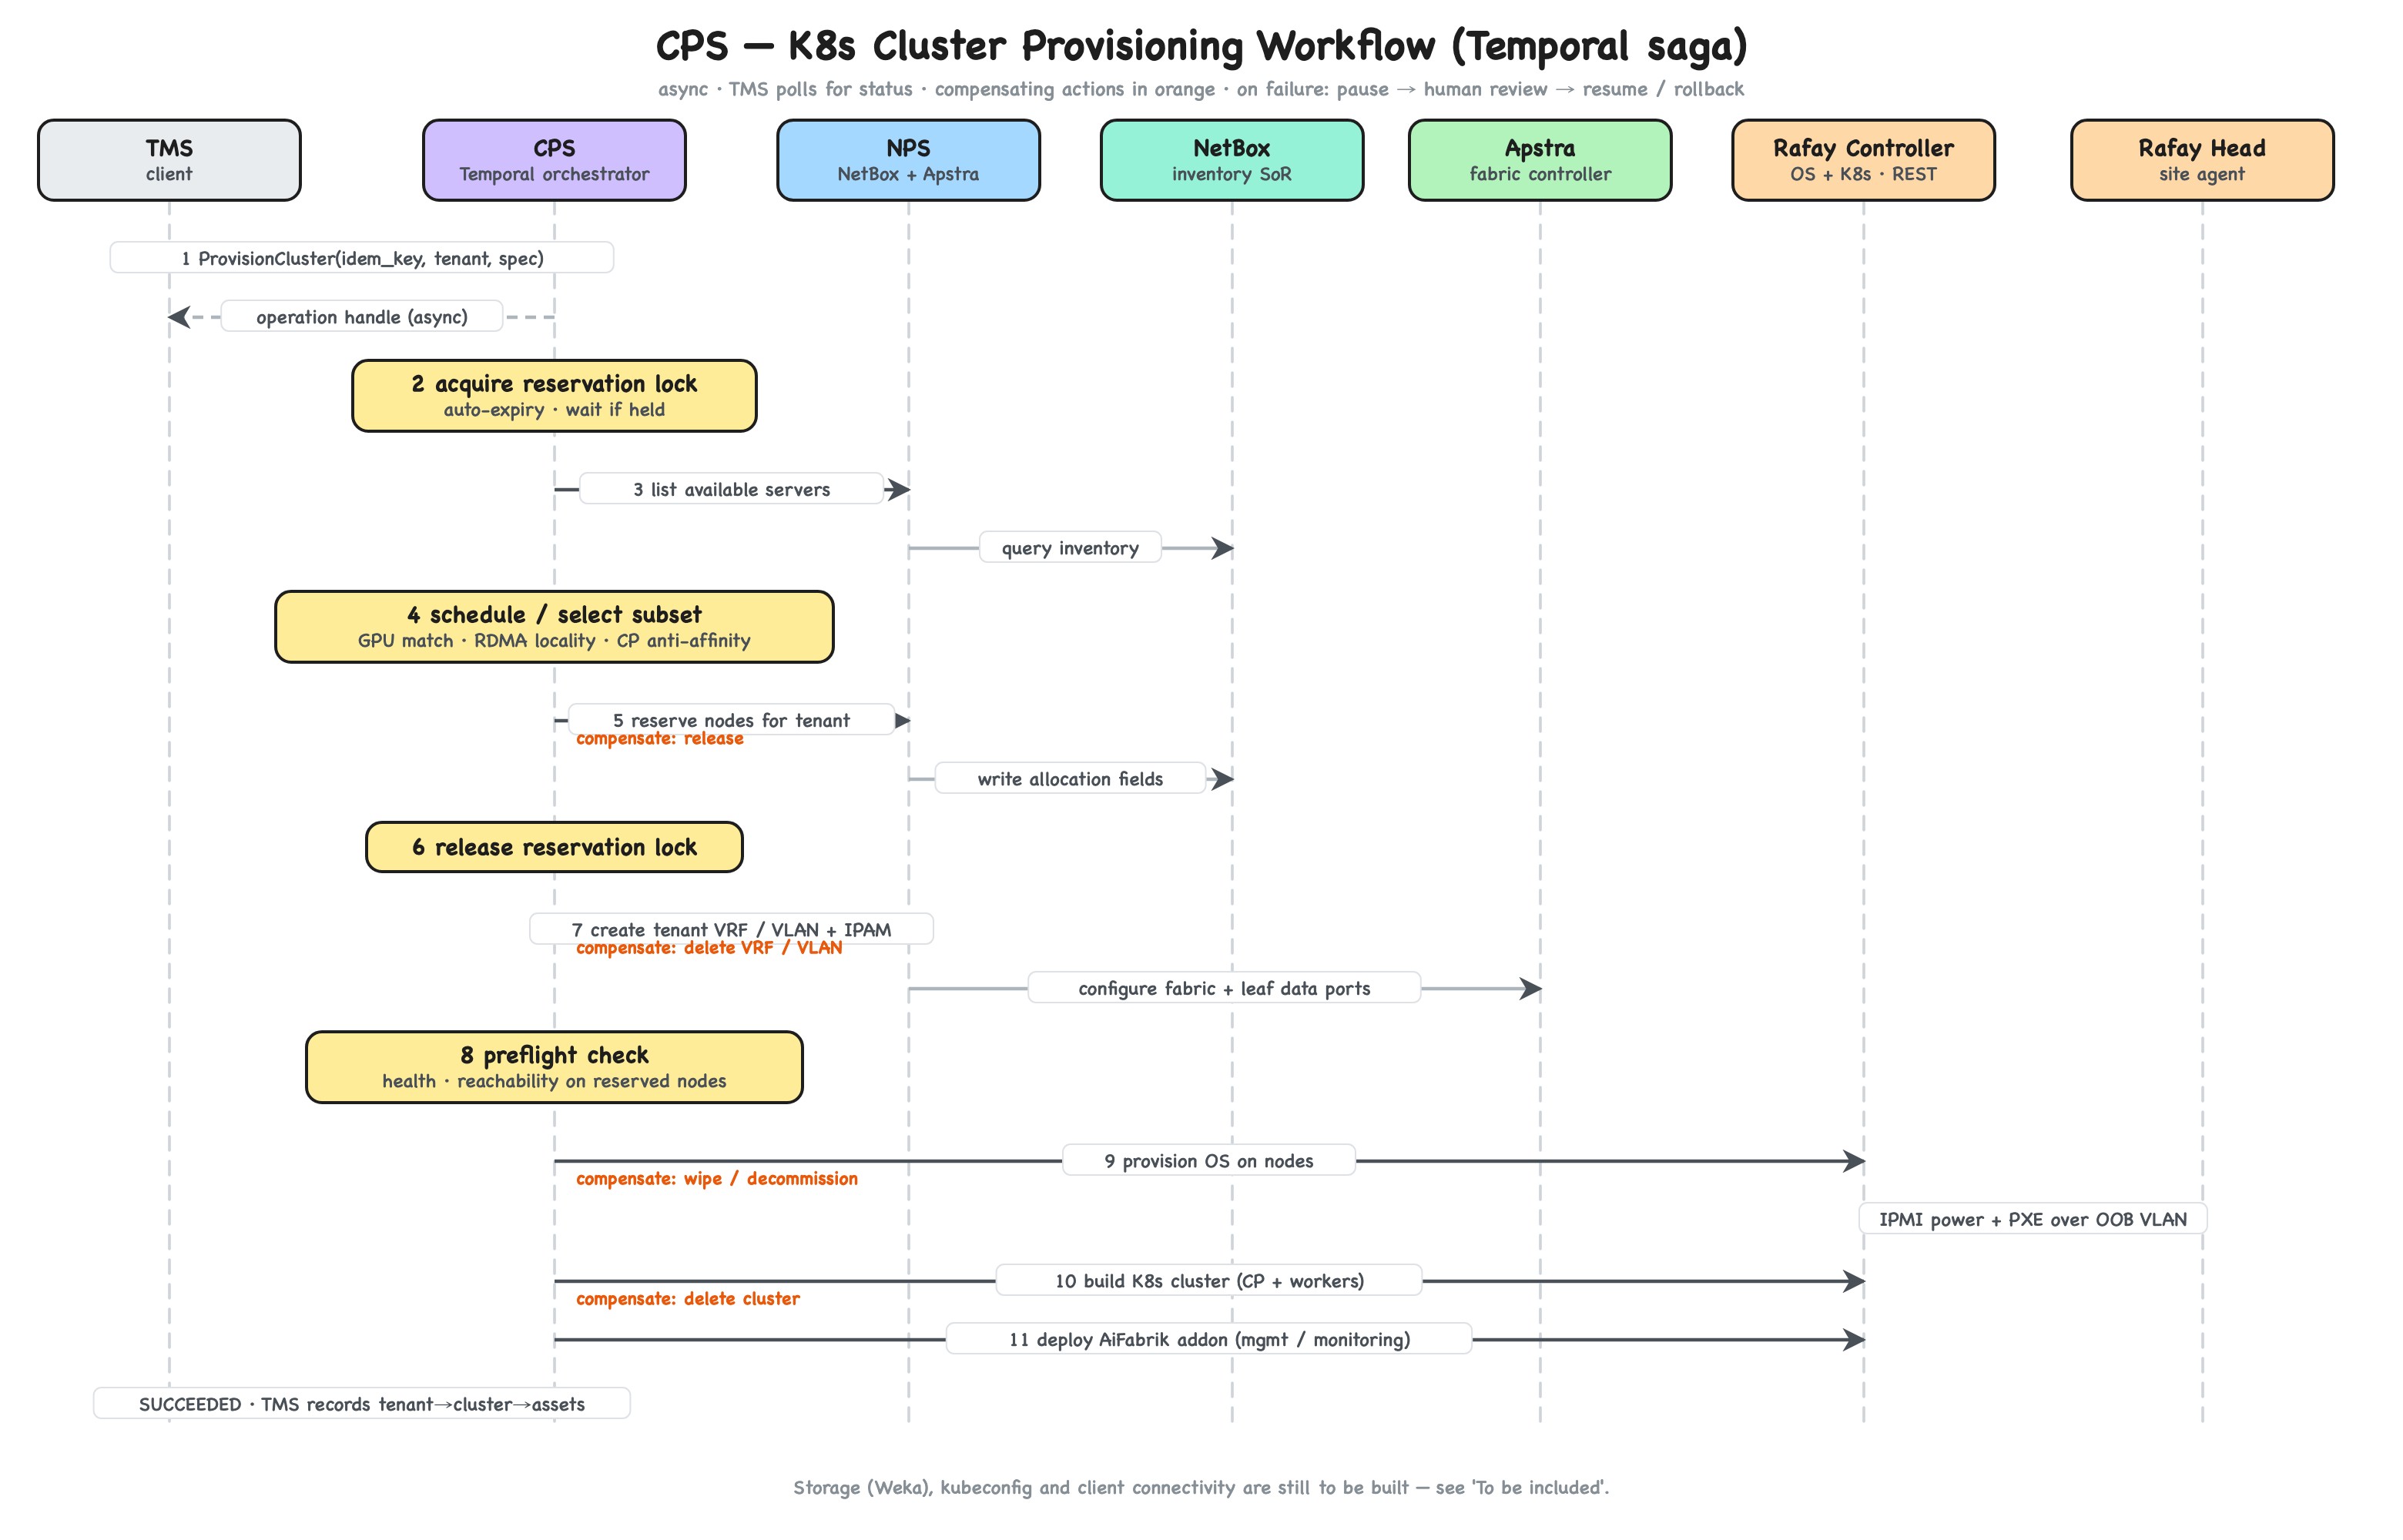
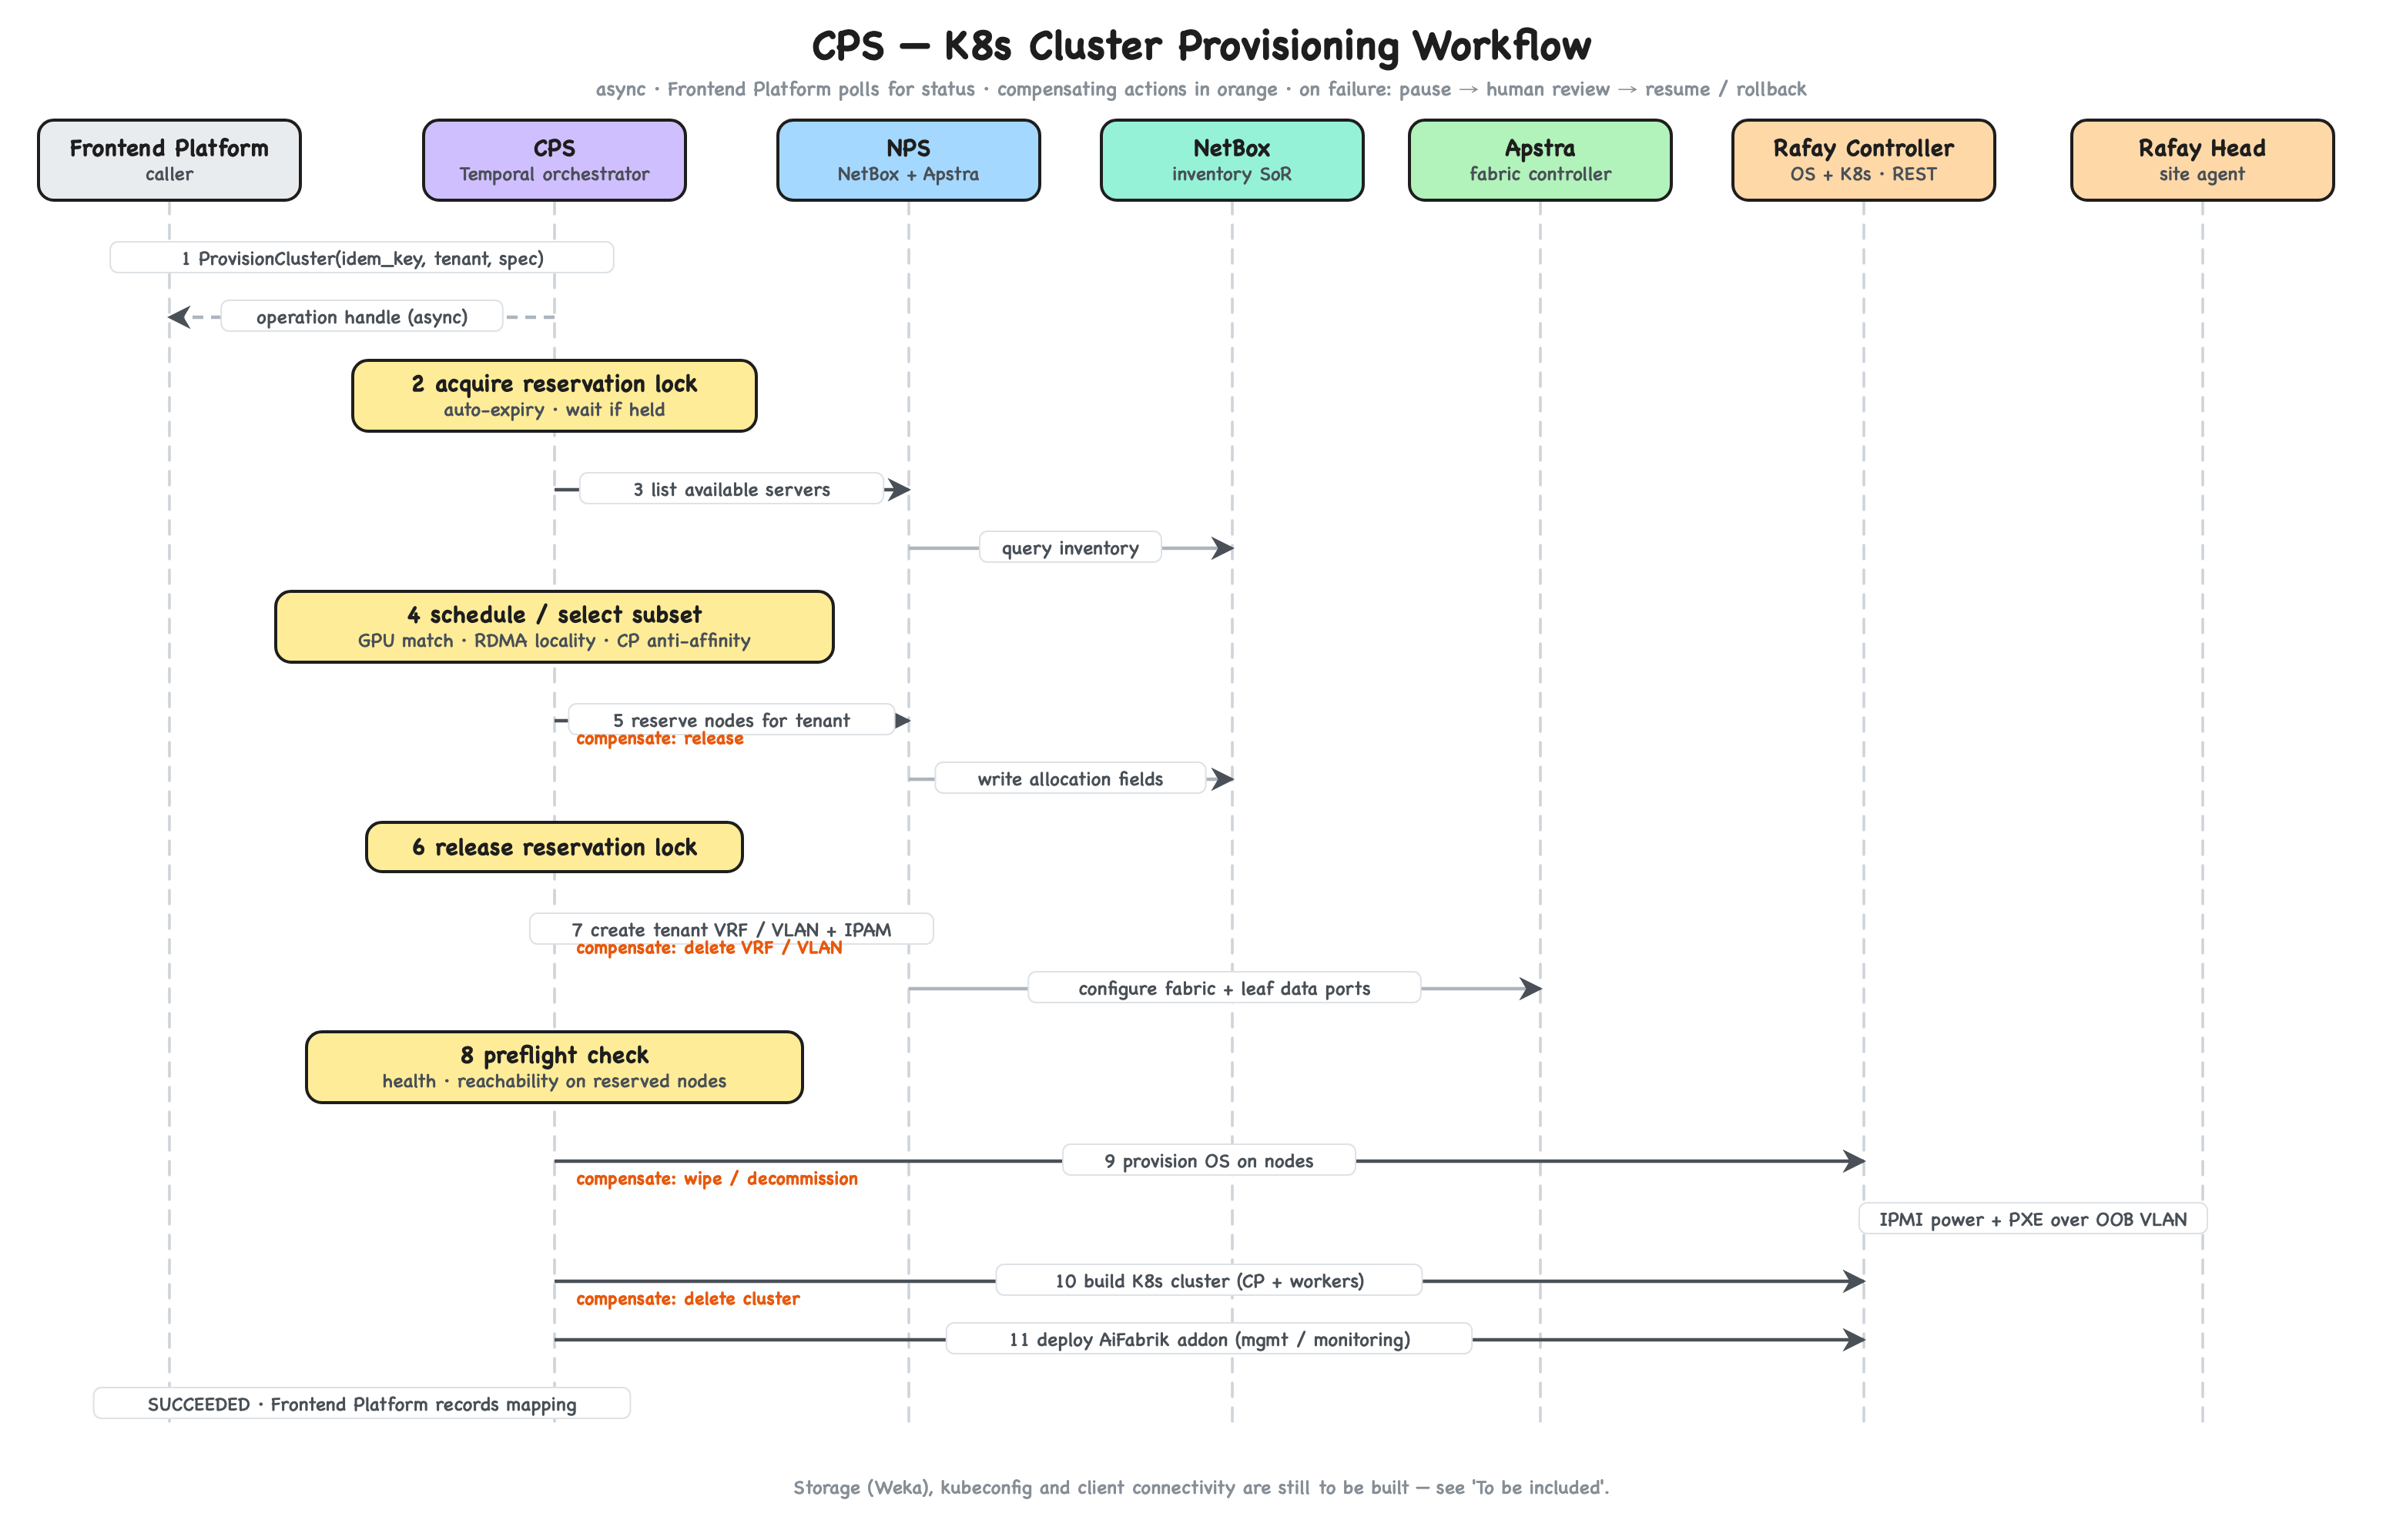
cps-design: snapshot voice, Frontend Platform / Management Plane (GCP) terms, drop saga/first-capability framing

Changed region(s): [[0.2487, 0.0, 0.7462, 0.062], [0.0622, 0.899, 0.2487, 0.93], [0.0311, 0.093, 0.1244, 0.124]]

diff --git a/cps-design/gen/build_provision_flow.py b/cps-design/gen/build_provision_flow.py
@@ -20,9 +20,9 @@ OUT = os.path.normpath(os.path.join(GEN, "..", "diagrams"))
 os.makedirs(OUT, exist_ok=True)
 
 W, H = 1560, 1000
-s = Scene(W, H, "CPS — K8s Cluster Provisioning Workflow (Temporal saga)")
+s = Scene(W, H, "CPS — K8s Cluster Provisioning Workflow")
 s.note(W/2, 62,
-       "async · TMS polls for status   ·   compensating actions in orange   ·   "
+       "async · Frontend Platform polls for status   ·   compensating actions in orange   ·   "
        "on failure: pause → human review → resume / rollback",
        size=13, color="#868e96", bold=False, anchor="middle")
 
@@ -35,7 +35,7 @@ def participant(key, x, title, sub, fill):
     s.line((x, LL_TOP), (x, LL_BOT), dashed=True, color="#ced4da", width=1.8)
     parts[key] = x
 
-participant("tms", 110,  "TMS", "client", "gray")
+participant("tms", 110,  "Frontend Platform", "caller", "gray")
 participant("cps", 360,  "CPS", "Temporal orchestrator", "violet")
 participant("nps", 590,  "NPS", "NetBox + Apstra", "blue")
 participant("nb",  800,  "NetBox", "inventory SoR", "teal")
@@ -91,7 +91,7 @@ comp("cps", y + 664, "delete cluster")
 
 msg("cps", "rc", y + 702, "11   deploy AiFabrik addon (mgmt / monitoring)")
 
-msg("cps", "tms", y + 744, "SUCCEEDED  ·  TMS records tenant→cluster→assets",
+msg("cps", "tms", y + 744, "SUCCEEDED  ·  Frontend Platform records mapping",
     dashed=True)
 
 s.note(W / 2, 970,

diff --git a/cps-design/k8s-cluster-provisioning.md b/cps-design/k8s-cluster-provisioning.md
@@ -1,50 +1,53 @@
-# CPS — K8s Cluster Provisioning (First Capability)
+# CPS — K8s Cluster Provisioning
 
-Design snapshot for the **Compute Provisioning Service (CPS)** first capability:
-provisioning a Kubernetes (K8s) cluster for a tenant on site hardware.
+The **Compute Provisioning Service (CPS)** provisions a Kubernetes (K8s) cluster for
+a tenant on site hardware.
 
-This describes the system as built. It covers the path from a Tenant Management
-Service (TMS) request to a running, AiFabrik-managed K8s cluster. Storage (Weka),
-kubeconfig delivery, and client connectivity belong to the same capability and are
-still to be built — see [To be included](#to-be-included).
+This describes the system as built. It covers the path from a Frontend Platform
+request to a running, AiFabrik-managed K8s cluster. Storage (Weka), kubeconfig
+delivery, and client connectivity are still to be built — see
+[To be included](#to-be-included).
 
 ## Executive summary
 
-CPS is a **stateless Temporal orchestrator** exposing gRPC to its single client,
-TMS. A provision request runs as one Temporal workflow (a saga): it reserves
-hardware in NetBox through the Network Provisioning Service (NPS), creates a tenant
-network (VRF/VLAN + IP addressing) through NPS→Apstra, provisions the operating
-system (OS) and builds K8s through the Rafay Controller, and deploys the AiFabrik
-management/monitoring addon. NetBox is the **System of Record (SoR)** for inventory
-and allocation; TMS — backed by PostgreSQL (PGSQL) — owns the business mapping
+CPS is a **stateless Temporal orchestrator** that exposes a gRPC API. A provision
+request runs as one Temporal workflow that:
+
+- reserves hardware in NetBox through the Network Provisioning Service (NPS);
+- creates a tenant network (VRF/VLAN + IP addressing) through NPS→Apstra;
+- provisions the operating system (OS) and builds K8s through the Rafay Controller;
+- deploys the AiFabrik management/monitoring addon.
+
+NetBox is the **System of Record (SoR)** for inventory and allocation. The Frontend
+Platform — backed by PostgreSQL (PGSQL) — owns the business mapping
 tenant→cluster→assets used for billing. The API is **async**: a call returns an
-operation handle and TMS polls for status.
+operation handle and the Frontend Platform polls for status.
 
 ## Actors & systems
 
-All cloud components run in Google Cloud Platform (GCP).
+All cloud components run in the Management Plane (GCP).
 
 | Component | Where | Role |
 |-----------|-------|------|
-| **TMS** (Tenant Management Service) | GCP / mgmt plane | CPS's client; owns tenant→cluster→assets mapping in PGSQL (billing). |
-| **CPS** (Compute Provisioning Service) | GCP | Temporal orchestrator, gRPC API. **Stateless** beyond Temporal workflow state. Owns scheduling/selection + the reservation lock. |
-| **NPS** (Network Provisioning Service) | GCP | gRPC/Proto wrapper over NetBox (inventory reads + allocation writes); drives Apstra for VRF/VLAN + IP addressing (IPAM). |
-| **NetBox** | GCP | Inventory **SoR**. Two writers, non-overlapping fields: Aravolta (physical) + CPS/NPS (allocation). |
-| **Aravolta** | GCP | Physical data-center infra management; feeds host/switch/router facts into NetBox. |
-| **Juniper Apstra** | GCP | Underlay fabric controller; configures site switches over the VPN. |
-| **Rafay Controller** | GCP (separate GKE cluster) | Bare-metal OS + K8s lifecycle + addons. CPS↔Rafay is REST. |
+| **Frontend Platform** | Management Plane (GCP) | Calls CPS to provision clusters; owns tenant→cluster→assets mapping in PGSQL (billing). |
+| **CPS** (Compute Provisioning Service) | Management Plane (GCP) | Temporal orchestrator, gRPC API. **Stateless** beyond Temporal workflow state. Owns scheduling/selection + the reservation lock. |
+| **NPS** (Network Provisioning Service) | Management Plane (GCP) | gRPC/Proto wrapper over NetBox (inventory reads + allocation writes); drives Apstra for VRF/VLAN + IP addressing (IPAM). |
+| **NetBox** | Management Plane (GCP) | Inventory **SoR**. Two writers, non-overlapping fields: Aravolta (physical) + CPS/NPS (allocation). |
+| **Aravolta** | Management Plane (GCP) | Physical data-center infra management; feeds host/switch/router facts into NetBox. |
+| **Juniper Apstra** | Management Plane (GCP) | Underlay fabric controller; configures site switches over the VPN. |
+| **Rafay Controller** | Management Plane (GCP, separate GKE cluster) | Bare-metal OS + K8s lifecycle + addons. CPS↔Rafay is REST. |
 | **Rafay Head Node** | Site | Last-mile agent: IPMI discovery, PXE boot, host config. |
 | **Site servers** | Site | CPU servers (control plane) + GPU servers (workers). |
 
-## Provisioning workflow (Temporal saga)
+## Provisioning workflow
 
 The API is async: `ProvisionCluster` starts the workflow and returns an operation
-handle; TMS polls `GetOperation`/`GetCluster`. Every mutating step has a
-compensating action, and activities are idempotent so Temporal can safely retry
-them. `ProvisionCluster` takes a client-supplied idempotency key, so a TMS retry
+handle; the Frontend Platform polls `GetOperation`/`GetCluster`. Every mutating step
+has a compensating action, and activities are idempotent so Temporal can safely
+retry them. `ProvisionCluster` takes a client-supplied idempotency key, so a retry
 does not start a duplicate workflow.
 
-![CPS K8s cluster-provisioning workflow — Temporal saga](diagrams/cps_provision_flow.png)
+![CPS K8s cluster-provisioning workflow](diagrams/cps_provision_flow.png)
 
 > Diagram source: [`gen/build_provision_flow.py`](gen/build_provision_flow.py) →
 > `diagrams/cps_provision_flow.{excalidraw,svg,png}`. Regenerate with
@@ -63,15 +66,17 @@ resources rather than release them.
 - **NetBox is the SoR for inventory and allocation.** It has two writers on
   non-overlapping fields: Aravolta writes physical facts; CPS/NPS write allocation
   facts. After a CPS wipe, NetBox still reflects which assets belong to which tenant.
-- **TMS/PGSQL owns the tenant→cluster→assets mapping** (consumed by billing).
+- **The Frontend Platform (PGSQL) owns the tenant→cluster→assets mapping** (consumed
+  by billing).
 - NetBox→Rafay node inventory is kept current by a **separate periodic CPS
   workflow** (every few hours), not by the provisioning path.
 
 ## Scheduling & reservation
 
-- **Node selection lives in CPS.** It matches the request against GPU type/count,
-  keeps GPU workers rail/leaf-local for backend Remote Direct Memory Access (RDMA),
-  and spreads control-plane nodes for high availability (HA).
+- **Node selection lives in CPS.** It:
+  - matches the request against GPU type/count;
+  - keeps GPU workers rail/leaf-local for backend Remote Direct Memory Access (RDMA);
+  - spreads control-plane nodes for high availability (HA).
 - **Reservation is serialized by a CPS-held lock**: acquire before reserving,
   release after; the lock auto-expires, and callers wait to acquire it. (Single
   site, low volume — a concurrency-safe reserve is [to be included](#to-be-included).)
@@ -88,26 +93,26 @@ resources rather than release them.
 
 ## Interfaces & security
 
-- **TMS↔CPS↔NPS** speak gRPC with Protocol Buffers (Proto); NPS presents NetBox and
-  Apstra behind that same gRPC surface.
+- **Frontend Platform↔CPS↔NPS** speak gRPC with Protocol Buffers (Proto); NPS
+  presents NetBox and Apstra behind that same gRPC surface.
 - **CPS↔Rafay is REST** (Rafay is a vendor product in a separate GKE cluster). Rafay
   credentials come from a secrets manager, never hardcoded.
-- All our services run cloud-side in one trust domain. The only VPN crossings are
-  vendor-internal: Apstra→switches and Rafay Controller↔Rafay Head Node (the head
-  node dials out). Rafay's project/RBAC model maps 1:1 to tenants to bound blast
-  radius.
+- All our services run in the Management Plane — one trust domain. The only VPN
+  crossings are vendor-internal: Apstra→switches and Rafay Controller↔Rafay Head Node
+  (the head node dials out). Rafay's project/RBAC model maps 1:1 to tenants to bound
+  blast radius.
 - The AiFabrik management/monitoring workload deploys as a **Rafay addon/blueprint**
   (declarative, re-applied).
 
 ## To be included
 
-The capability is not complete without these; each gets its own design pass.
+These pieces complete the capability; each gets its own design pass.
 
 - **Storage (Weka).** Per-tenant filesystem plus the K8s Container Storage Interface
   (CSI) integration.
 - **Kubeconfig & client connectivity.** Tenants get a **direct API-server
   kubeconfig** (no Rafay zero-trust kubectl access, "ZTKA"). Two problems: a network
-  path from cloud/tenant to the API server inside the tenant VRF at the site, and
-  credential lifecycle (issue/rotate/revoke).
+  path from the Management Plane or tenant to the API server inside the tenant VRF at
+  the site, and credential lifecycle (issue/rotate/revoke).
 - **Concurrency-safe reservation.** Replace the single CPS lock with an atomic
   compare-and-set reserve in NPS once request volume outgrows serialized access.

diff --git a/cps-design/README.md b/cps-design/README.md
@@ -4,8 +4,8 @@ Design artifacts for the **Compute Provisioning Service (CPS)** — the system t
 bridges *supply* (racked B300 GPU + CPU servers, Juniper QFX fabric, NetBox
 inventory) and *demand* (a tenant requesting a Kubernetes-as-a-Service cluster
 with GPUs). CPS uses **Rafay** for bare-metal provisioning + K8s control-plane
-lifecycle, **Juniper Apstra** (via the Networking team's API) for fabric/VRF
-isolation, and **Weka** for storage.
+lifecycle, the **Network Provisioning Service (NPS)** — which drives **Juniper
+Apstra** — for fabric/VRF isolation, and **Weka** for storage.
 
 ## Layout
 
@@ -23,7 +23,7 @@ cps-design/
 | File | What it shows |
 |------|---------------|
 | `cps_system` | System-level component map: CPS internals, external dependencies, site substrate. |
-| `cps_provision_flow` | K8s cluster-provisioning workflow (Temporal saga): the sequence from a TMS request to a running, AiFabrik-managed cluster, with compensations. |
+| `cps_provision_flow` | K8s cluster-provisioning workflow: from a Frontend Platform request to a running, AiFabrik-managed cluster, with compensations. |
 
 ## Regenerate
 